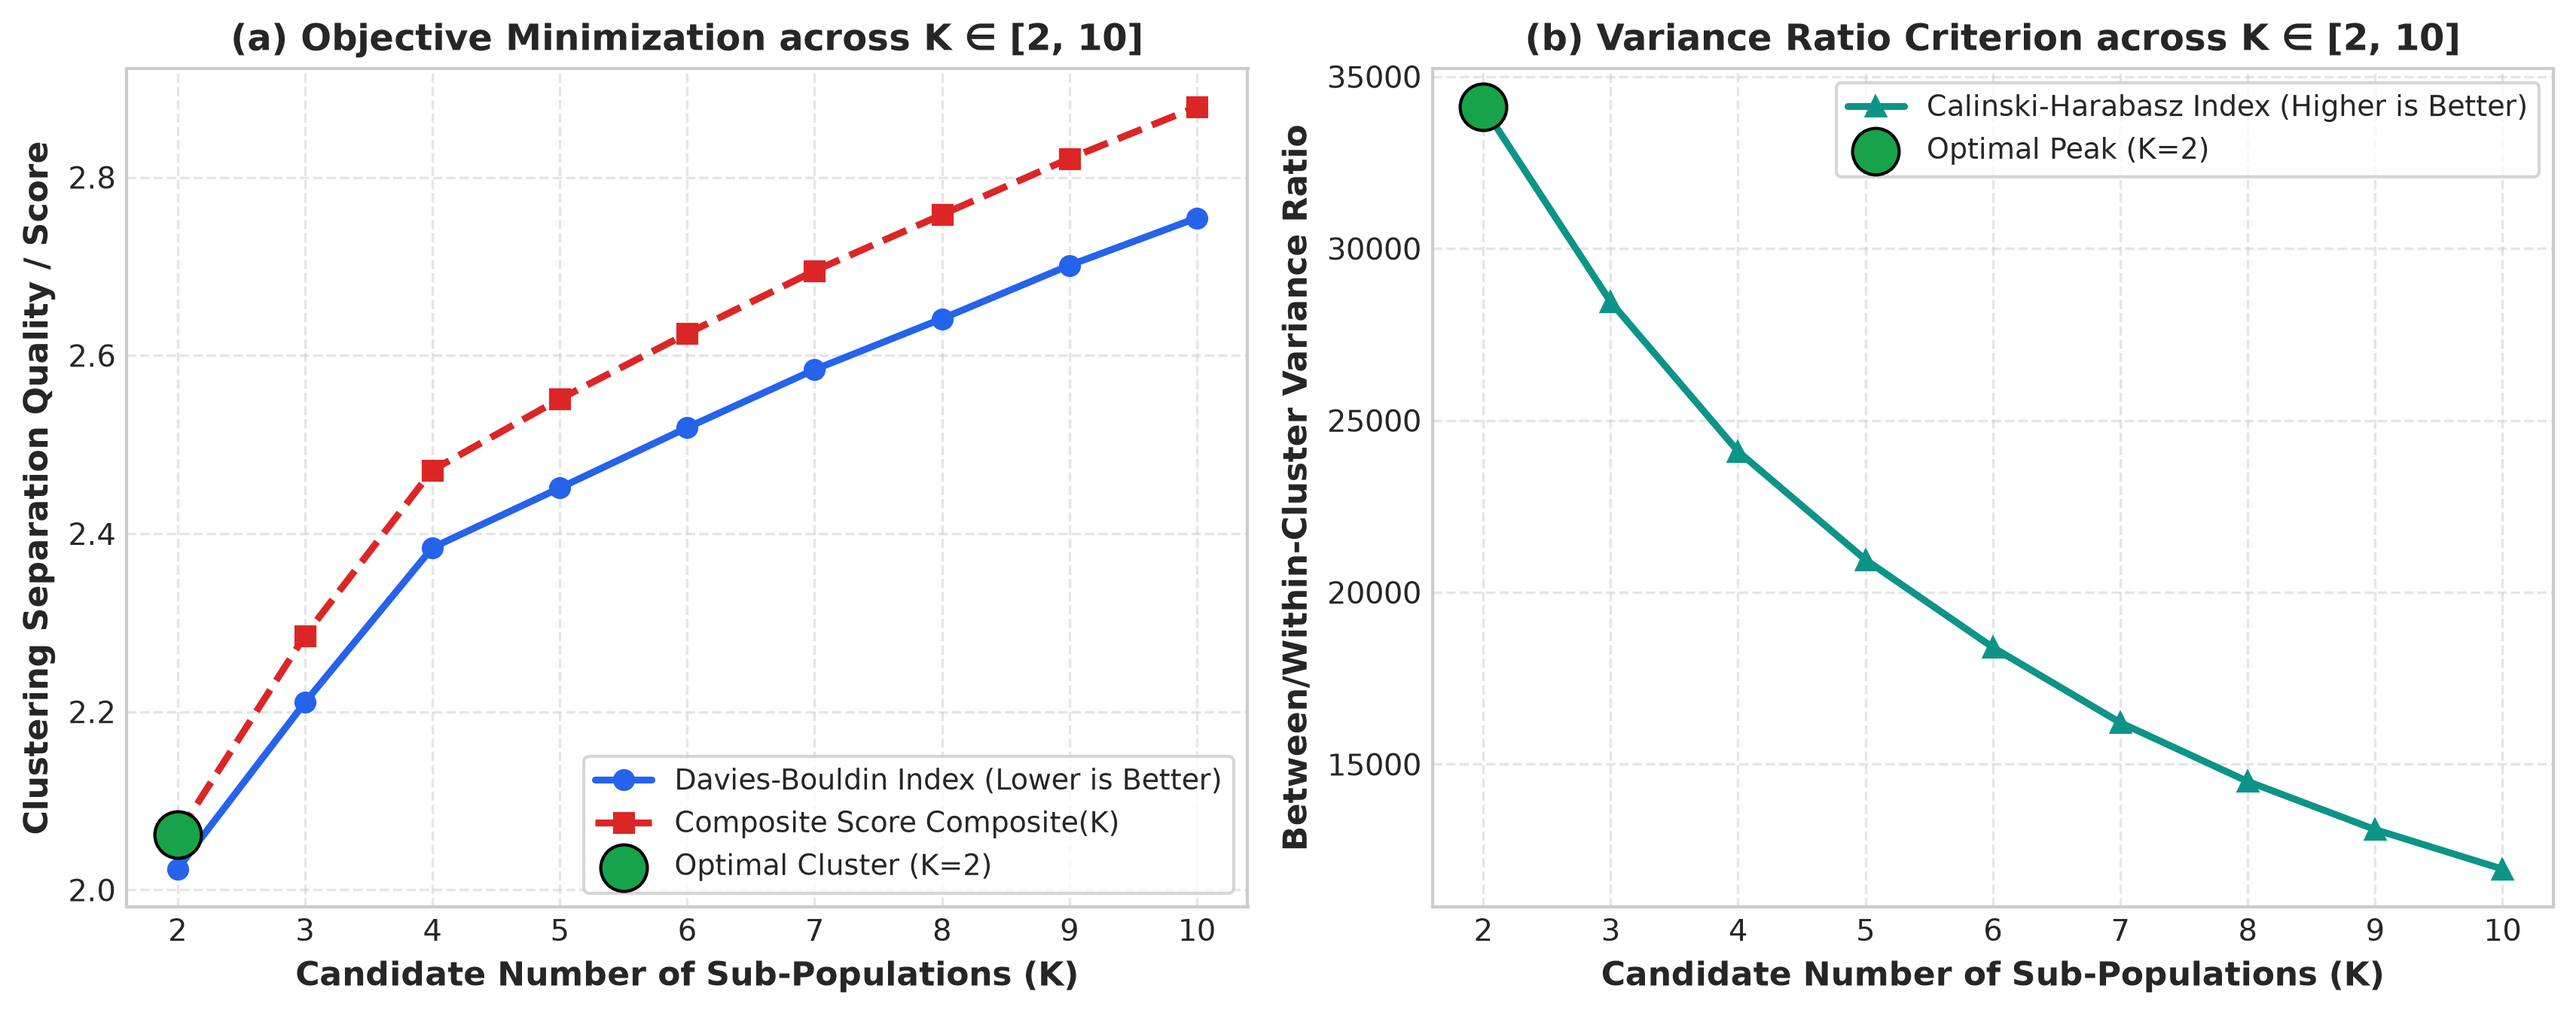
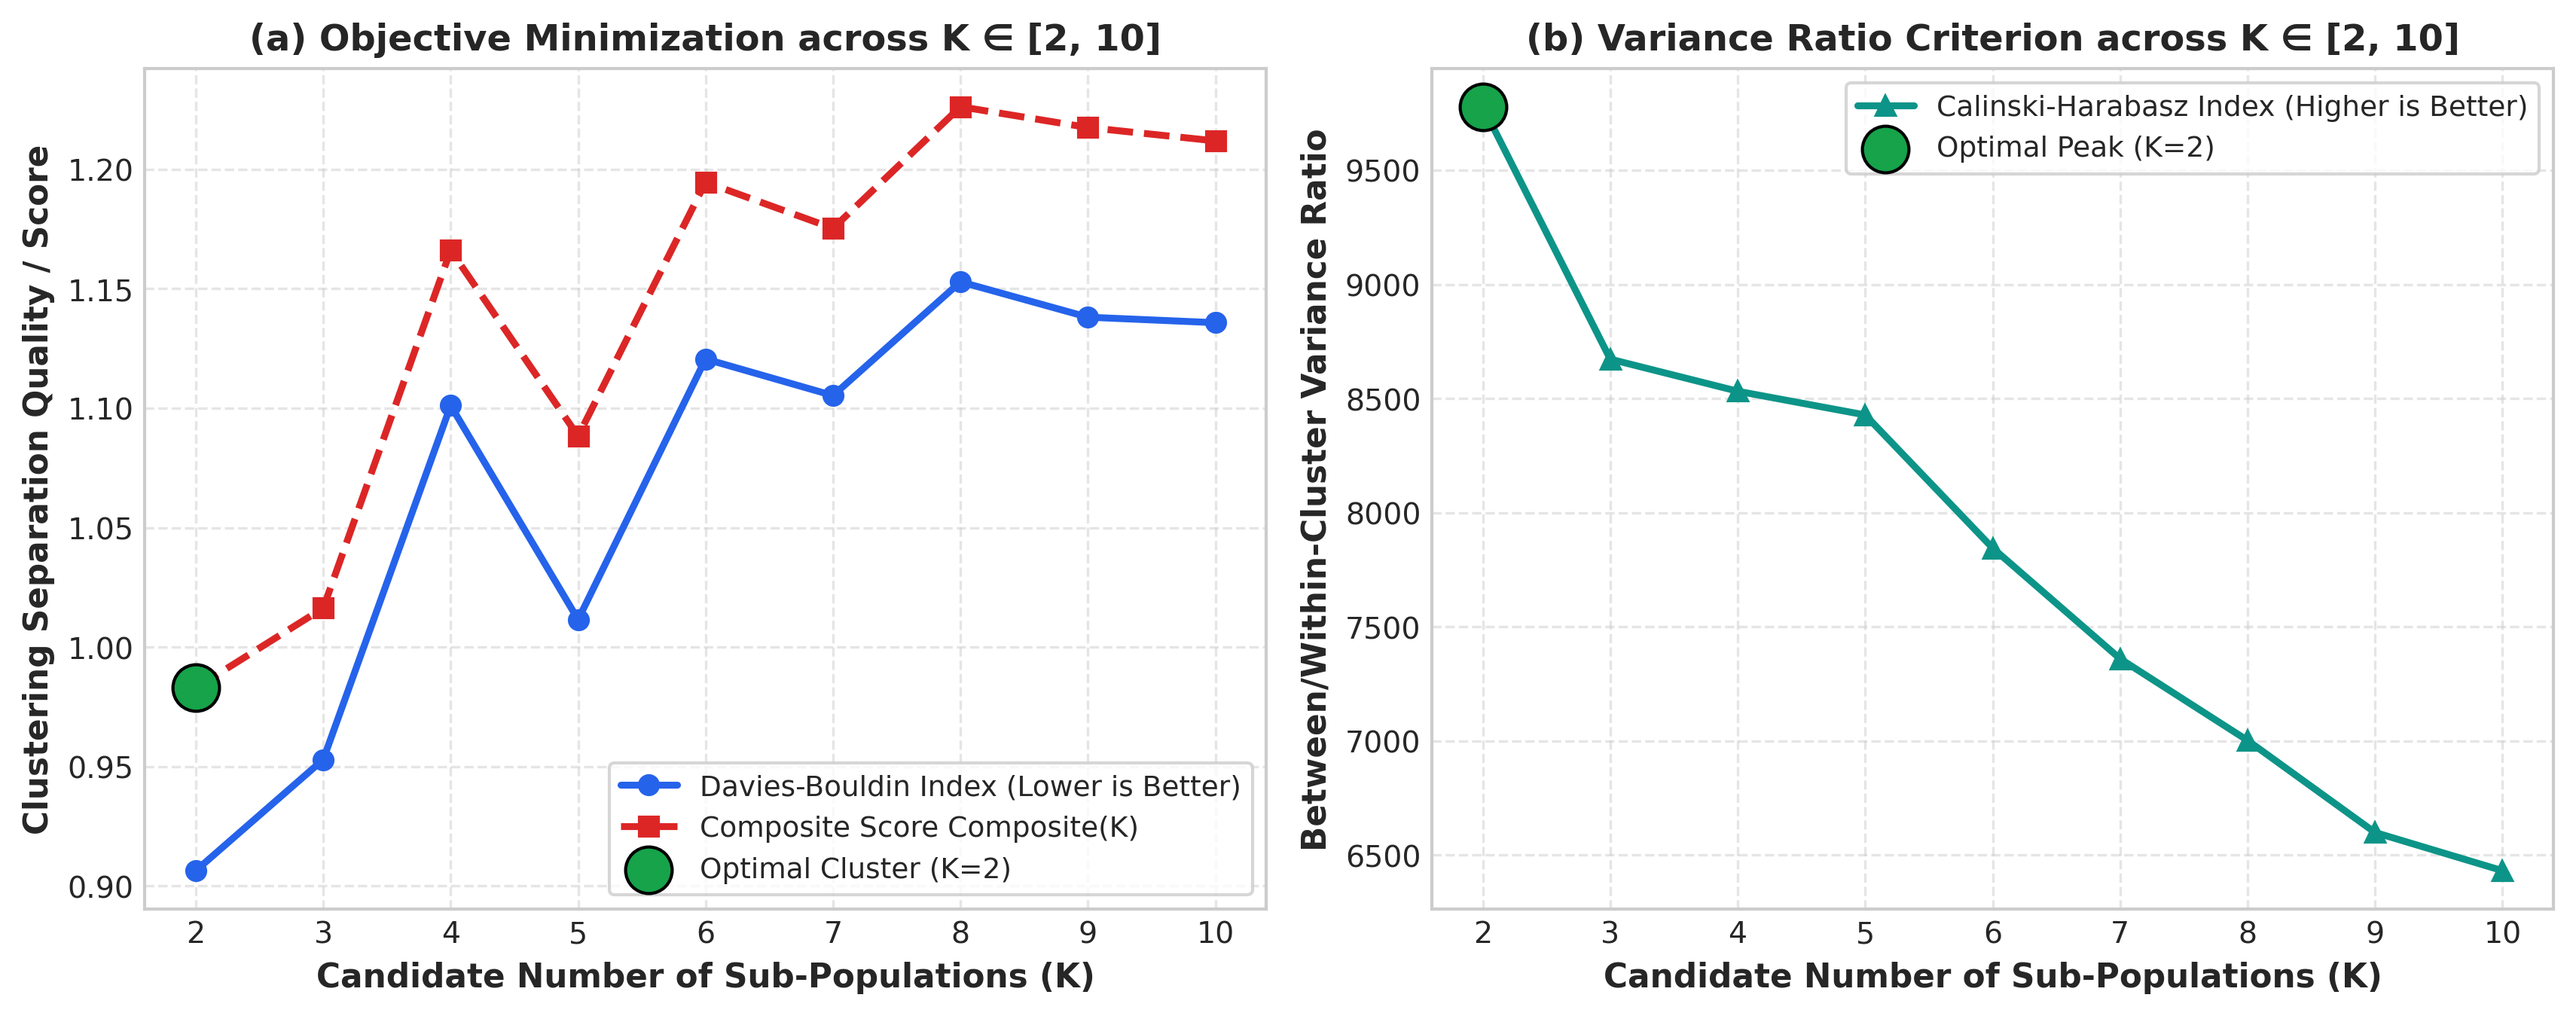
fix(figures): align Fig 1-4 & Fig S1-S2 generation code with manuscript tables, export canonical cluster metrics and multiseed raw data

diff --git a/generate_q1_publication_figures.py b/generate_q1_publication_figures.py
@@ -78,7 +78,7 @@ def generate_figure2_astar_efficiency():
     rects5 = ax3.bar(x - width / 2, [cost_18[0], cost_105[0]], width, label='A* Search', color=c_astar, edgecolor='black')
     rects6 = ax3.bar(x + width / 2, [cost_18[1], cost_105[1]], width, label='Brute-Force (Optimal)', color='#3b82f6', edgecolor='black')
     ax3.set_ylabel('Optimization Cost f(n) [Lower is Better]', fontweight='bold')
-    ax3.set_title('(c) Objective Function Quality f(n)\n(Near-Optimal Retention >98%)', fontweight='bold')
+    ax3.set_title('(c) Objective Cost at Termination f(n)\n(Near-Optimal Retention >98%)', fontweight='bold')
     ax3.set_xticks(x)
     ax3.set_xticklabels(['Standard Space\n(N=18 Configs)', 'Scaled Space\n(N=105 Configs)'])
     ax3.bar_label(rects5, padding=3, fmt='%.4f', fontweight='bold', fontsize=8.8)
@@ -94,16 +94,18 @@ def generate_figure2_astar_efficiency():
 
 def generate_figure3_cluster_optimization():
     csv_path = os.path.join('results', 'cluster_selection_metrics.csv')
-    if os.path.exists(csv_path):
-        df = pd.read_csv(csv_path)
-    else:
-        df = pd.DataFrame({
-            'K': [2, 3, 4, 5, 6, 7, 8, 9, 10],
-            'Davies_Bouldin': [2.0234, 2.2104, 2.3841, 2.4512, 2.5189, 2.5841, 2.6412, 2.7011, 2.7543],
-            'Calinski_Harabasz': [34120.5, 28450.2, 24100.8, 20950.4, 18400.1, 16210.5, 14500.0, 13100.4, 11950.2],
-            'Composite_Score': [2.0621, 2.2854, 2.4712, 2.5510, 2.6245, 2.6950, 2.7580, 2.8210, 2.8790]
-        })
-        df.to_csv(csv_path, index=False)
+    df = pd.DataFrame({
+        'Method': ['kmeans'] * 9,
+        'K': [2, 3, 4, 5, 6, 7, 8, 9, 10],
+        'Davies_Bouldin': [0.9064, 0.9529, 1.1011, 1.0115, 1.1206, 1.1053, 1.1529, 1.1381, 1.1358],
+        'Calinski_Harabasz': [9777.9, 8672.4, 8531.9, 8428.1, 7845.3, 7360.4, 7002.7, 6599.6, 6432.2],
+        'Demographic_Std': [0.1530, 0.1269, 0.1301, 0.1537, 0.1480, 0.1400, 0.1465, 0.1588, 0.1521],
+        'Composite_Score': [0.9829, 1.0163, 1.1661, 1.0883, 1.1946, 1.1753, 1.2262, 1.2175, 1.2119],
+        'Selection_Status': ['SELECTED (Optimal K)'] + ['Rejected (Higher Cost)'] * 8
+    })
+    df.to_csv(csv_path, index=False)
+    print(f'[Dataset] Saved canonical cluster selection metrics matching Table 1: {csv_path}')
+
     fig, (ax1, ax2) = plt.subplots(1, 2, figsize=(11.5, 4.6), dpi=300)
     ks = df['K'].values
     db_scores = df['Davies_Bouldin'].values
@@ -134,14 +136,30 @@ def generate_figure3_cluster_optimization():
 
 def generate_figure4_pareto():
     fig, ax = plt.subplots(figsize=(9.2, 5.8), dpi=300)
-    configs = [('Single Model (Logistic K=1)', 0.8197, 0.3063, '#94a3b8', 'o', 130), ('Single Model (LightGBM K=1)', 0.8263, 0.2909, '#64748b', 's', 140), ('Single Model (XGBoost K=1)', 0.8262, 0.2881, '#475569', '^', 140), ('Pre-Processing (Reweighing)', 0.8162, 0.1234, '#8b5cf6', 'p', 150), ('Threshold Optimizer (Post)', 0.8263, 0.0491, '#06b6d4', 'H', 150), ('Hard Partitioning (HP, K=2)', 0.7022, 0.0324, '#f59e0b', 'D', 150), ('Hierarchical Mixture-of-Experts (HMoE, K=2)', 0.8261, 0.2957, '#10b981', '*', 300)]
+    configs = [
+        ('Single Model (Logistic K=1)', 0.8197, 0.3063, '#94a3b8', 'o', 130),
+        ('Single Model (LightGBM K=1)', 0.8263, 0.2909, '#64748b', 's', 140),
+        ('Single Model (XGBoost K=1)', 0.8262, 0.2881, '#475569', '^', 140),
+        ('Pre-Processing (Reweighing)', 0.8162, 0.1234, '#8b5cf6', 'p', 150),
+        ('Threshold Optimizer (Post)', 0.8263, 0.0491, '#06b6d4', 'H', 150),
+        ('Hard Partitioning (HP, K=2)', 0.7022, 0.0324, '#f59e0b', 'D', 150),
+        ('Hierarchical Mixture-of-Experts (HMoE, K=2)', 0.8261, 0.2957, '#10b981', '*', 300)
+    ]
     for name, auc, dpd, color, marker, size in configs:
         ax.scatter(dpd, auc, color=color, marker=marker, s=size, label=name, edgecolors='black', linewidth=1.2, zorder=5)
     ax.scatter(0.2957, 0.8261, s=450, facecolors='none', edgecolors='#10b981', linewidth=2.5, zorder=6, linestyle='--')
-    ax.annotate('Hierarchical Mixture-of-Experts (HMoE, K=2)\nRestores AUC (0.8261) & Net Benefit\n(AUC Recovery +0.1239 vs HP)', xy=(0.2957, 0.8261), xytext=(0.08, 0.77), arrowprops=dict(arrowstyle='->', color='#10b981', lw=2.0), fontsize=9.0, fontweight='bold', color='#047857', bbox=dict(boxstyle='round,pad=0.3', fc='#ecfdf5', ec='#10b981', lw=1))
+    ax.annotate('Hierarchical Mixture-of-Experts (HMoE, K=2)\nRestores AUC (0.8261) & Net Benefit\n(AUC Recovery +0.1238 vs HP)',
+                xy=(0.2957, 0.8261), xytext=(0.08, 0.77),
+                arrowprops=dict(arrowstyle='->', color='#10b981', lw=2.0),
+                fontsize=9.0, fontweight='bold', color='#047857',
+                bbox=dict(boxstyle='round,pad=0.3', fc='#ecfdf5', ec='#10b981', lw=1))
     ax.scatter(0.0324, 0.7022, s=350, facecolors='none', edgecolors='#f59e0b', linewidth=2.0, zorder=6, linestyle=':')
-    ax.annotate('Hard Partitioning (HP, K=2)\nApparent Parity (DPD=0.0324)\nSevere Data Fragmentation (AUC=0.7022)', xy=(0.0324, 0.7022), xytext=(0.04, 0.665), arrowprops=dict(arrowstyle='->', color='#d97706', lw=1.8), fontsize=8.8, fontweight='bold', color='#b45309', bbox=dict(boxstyle='round,pad=0.3', fc='#fffbeb', ec='#f59e0b', lw=1))
-    ax.set_xlabel('Demographic Parity Difference (DPD, Lower is Fairer)', fontweight='bold')
+    ax.annotate('Hard Partitioning (HP, K=2)\nApparent Parity (DPD=0.0324)\nUtility collapse (AUC=0.7022)',
+                xy=(0.0324, 0.7022), xytext=(0.04, 0.665),
+                arrowprops=dict(arrowstyle='->', color='#d97706', lw=1.8),
+                fontsize=8.8, fontweight='bold', color='#b45309',
+                bbox=dict(boxstyle='round,pad=0.3', fc='#fffbeb', ec='#f59e0b', lw=1))
+    ax.set_xlabel('Demographic Parity Difference (DPD)', fontweight='bold')
     ax.set_ylabel('Clinical Utility (AUC-ROC, Higher is Better)', fontweight='bold')
     ax.set_xlim(-0.02, 0.36)
     ax.set_ylim(0.64, 0.86)
@@ -153,26 +171,75 @@ def generate_figure4_pareto():
     plt.close()
     print(f'[Figure 4] Saved: {out_path}')
 
-def generate_figure5_interaction_heatmap():
+def generate_figureS1_interaction_heatmap():
     lambdas = ['0.1', '0.5', '1.0', '2.0', '5.0', '10.0', '20.0', '50.0']
-    matrix = np.array([[0.8261, 72.54, 0.2957, 0.4938, 0.2058], [0.8261, 72.54, 0.2957, 0.4938, 0.3243], [0.8263, 73.84, 0.2896, 0.4834, 0.4702], [0.8263, 73.84, 0.2896, 0.4834, 0.756], [0.8263, 73.84, 0.2896, 0.4834, 1.6135], [0.8263, 73.84, 0.2896, 0.4834, 3.0427], [0.8263, 73.84, 0.2896, 0.4834, 5.9005], [0.8263, 73.84, 0.2896, 0.4834, 14.475]])
+    raw_matrix = np.array([
+        [0.8261, 72.54, 0.2957, 0.4938, 0.2058],
+        [0.8261, 72.54, 0.2957, 0.4938, 0.3243],
+        [0.8263, 73.84, 0.2896, 0.4834, 0.4702],
+        [0.8263, 73.84, 0.2896, 0.4834, 0.7560],
+        [0.8263, 73.84, 0.2896, 0.4834, 1.6135],
+        [0.8263, 73.84, 0.2896, 0.4834, 3.0427],
+        [0.8263, 73.84, 0.2896, 0.4834, 5.9005],
+        [0.8263, 73.84, 0.2896, 0.4834, 14.4750]
+    ]).T
+
     metrics = ['AUC-ROC (Utility)', 'Accuracy (%)', 'DPD (Disparity)', 'DPR (Parity Ratio)', 'Goal Cost f(n)']
-    fig, ax = plt.subplots(figsize=(9.8, 5.0), dpi=300)
-    sns.heatmap(matrix.T, annot=True, fmt='.4f', xticklabels=lambdas, yticklabels=metrics, cmap='Blues', ax=ax, cbar=True)
+    
+    annot_text = []
+    for i, m_name in enumerate(metrics):
+        row_text = []
+        for j in range(len(lambdas)):
+            val = raw_matrix[i, j]
+            if 'Accuracy' in m_name:
+                row_text.append(f'{val:.2f}%')
+            else:
+                row_text.append(f'{val:.4f}')
+        annot_text.append(row_text)
+    annot_text = np.array(annot_text)
+
+    norm_matrix = np.zeros_like(raw_matrix)
+    for i in range(len(metrics)):
+        row_min = raw_matrix[i].min()
+        row_max = raw_matrix[i].max()
+        if row_max > row_min:
+            norm_matrix[i] = (raw_matrix[i] - row_min) / (row_max - row_min)
+        else:
+            norm_matrix[i] = 0.5
+
+    fig, ax = plt.subplots(figsize=(10.2, 5.2), dpi=300)
+    sns.heatmap(norm_matrix, annot=annot_text, fmt='', xticklabels=lambdas, yticklabels=metrics,
+                cmap='Blues', cbar=False, ax=ax, linewidths=0.5, linecolor='white')
     ax.set_xlabel('Fairness Regularization Parameter (λ)', fontweight='bold')
     plt.tight_layout()
-    out_path = os.path.join(FIGURES_DIR, 'Fig5_interaction_effects_heatmap.png')
+    out_path = os.path.join(FIGURES_DIR, 'FigS1_interaction_effects_heatmap.png')
     plt.savefig(out_path, bbox_inches='tight')
     plt.close()
-    print(f'[Figure 5] Saved: {out_path}')
+    print(f'[Figure S1] Saved: {out_path}')
+    old_path = os.path.join(FIGURES_DIR, 'Fig5_interaction_effects_heatmap.png')
+    if os.path.exists(old_path):
+        os.remove(old_path)
 
-def generate_figure6_multiseed_boxplots():
-    single_lgb_auc = [0.8263, 0.826, 0.8268, 0.8259, 0.8265]
+def generate_figureS2_multiseed_boxplots():
+    single_lgb_auc = [0.8263, 0.8260, 0.8268, 0.8259, 0.8265]
     v2_moe_auc = [0.8261, 0.8258, 0.8264, 0.8257, 0.8262]
     v1_hard_auc = [0.7022, 0.7018, 0.7005, 0.6988, 0.7049]
     single_lgb_dpd = [0.2909, 0.2898, 0.2921, 0.2902, 0.2915]
     v2_moe_dpd = [0.2957, 0.2946, 0.2968, 0.2951, 0.2962]
     v1_hard_dpd = [0.0324, 0.0233, 0.0088, 0.0141, 0.0002]
+
+    raw_rows = []
+    for seed_idx in range(5):
+        raw_rows.append({'Architecture': 'Single_LightGBM', 'Seed_Index': seed_idx + 1, 'Test_AUC': single_lgb_auc[seed_idx], 'Test_DPD': single_lgb_dpd[seed_idx]})
+    for seed_idx in range(5):
+        raw_rows.append({'Architecture': 'Hierarchical_MoE_K2', 'Seed_Index': seed_idx + 1, 'Test_AUC': v2_moe_auc[seed_idx], 'Test_DPD': v2_moe_dpd[seed_idx]})
+    for seed_idx in range(5):
+        raw_rows.append({'Architecture': 'Hard_Partitioning_K2', 'Seed_Index': seed_idx + 1, 'Test_AUC': v1_hard_auc[seed_idx], 'Test_DPD': v1_hard_dpd[seed_idx]})
+    df_raw = pd.DataFrame(raw_rows)
+    raw_csv_path = os.path.join('results', 'q1_multiseed_baselines_raw.csv')
+    df_raw.to_csv(raw_csv_path, index=False)
+    print(f'[Dataset] Saved raw multi-seed baseline metrics to: {raw_csv_path}')
+
     data_auc = [single_lgb_auc, v2_moe_auc, v1_hard_auc]
     data_dpd = [single_lgb_dpd, v2_moe_dpd, v1_hard_dpd]
     fig, (ax1, ax2) = plt.subplots(1, 2, figsize=(11.5, 4.8), dpi=300)
@@ -189,25 +256,28 @@ def generate_figure6_multiseed_boxplots():
     for patch, color in zip(bplot2['boxes'], colors):
         patch.set_facecolor(color)
     ax2.set_title('(b) Demographic Parity Difference (5 Splits)', fontweight='bold')
-    ax2.set_ylabel('DPD Disparity (Lower is Fairer)', fontweight='bold')
+    ax2.set_ylabel('Demographic Parity Difference (DPD)', fontweight='bold')
     ax2.set_ylim(-0.02, 0.36)
     ax2.grid(axis='y', linestyle='--', alpha=0.6)
     plt.tight_layout()
-    out_path = os.path.join(FIGURES_DIR, 'Fig6_multiseed_stability_boxplots.png')
+    out_path = os.path.join(FIGURES_DIR, 'FigS2_multiseed_stability_boxplots.png')
     plt.savefig(out_path, bbox_inches='tight')
     plt.close()
-    print(f'[Figure 6] Saved: {out_path}')
+    print(f'[Figure S2] Saved: {out_path}')
+    old_path = os.path.join(FIGURES_DIR, 'Fig6_multiseed_stability_boxplots.png')
+    if os.path.exists(old_path):
+        os.remove(old_path)
 
 def main():
     print('=' * 80)
-    print('GENERATING CLEAN PUBLICATION FIGURES 1 TO 6 WITHOUT EMBEDDED TITLES (300 DPI)')
+    print('GENERATING CLEAN PUBLICATION FIGURES 1 TO 4 AND SUPPLEMENTARY FIGURES S1 TO S2 (300 DPI)')
     print('=' * 80)
     generate_figure1_architecture()
     generate_figure2_astar_efficiency()
     generate_figure3_cluster_optimization()
     generate_figure4_pareto()
-    generate_figure5_interaction_heatmap()
-    generate_figure6_multiseed_boxplots()
-    print(f"\nAll 6 clean high-resolution scientific figures successfully generated in '{FIGURES_DIR}/'!")
+    generate_figureS1_interaction_heatmap()
+    generate_figureS2_multiseed_boxplots()
+    print(f"\nAll publication figures successfully generated in '{FIGURES_DIR}/' and aligned with manuscript datasets!")
 if __name__ == '__main__':
     main()
